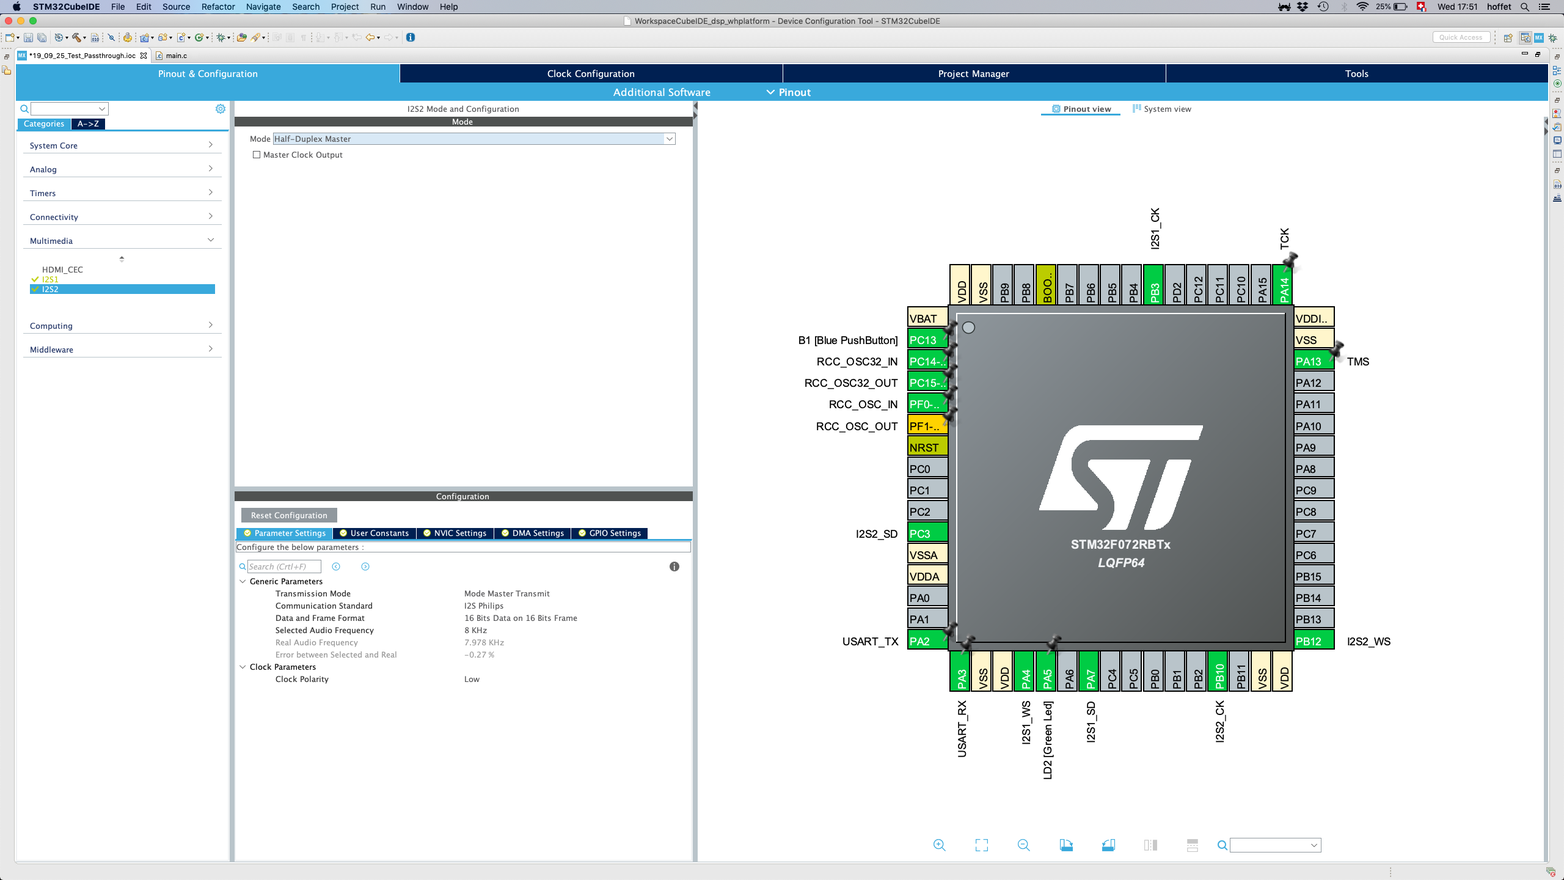
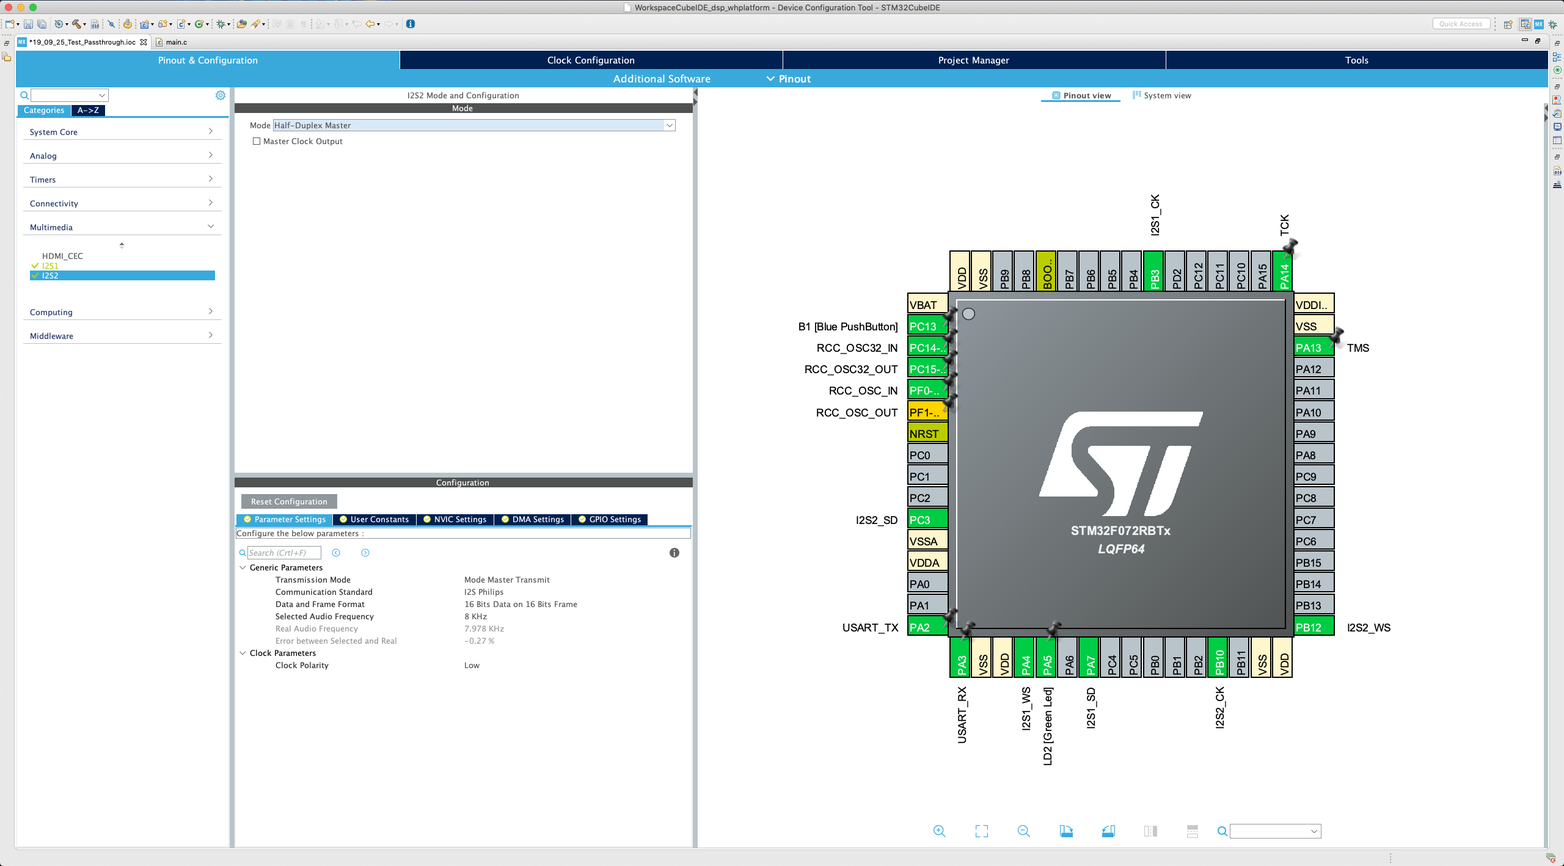
GitBook: [mooc] 7 pages and 22 assets modified

diff --git a/docs/installation/instructions.md b/docs/installation/instructions.md
@@ -16,6 +16,8 @@
 
 The first time you open the software, you will be prompted with the following screen
 
+A pop-up may appear asking if you would like to initialise all peripherals with their default mode. Press _Yes_.
+
 ![](../.gitbook/assets/screenshot-2019-10-01-at-11.37.05.png)
 
 Press the _Start new STM32 project_ button in order to launch CubeMX and start initialising the project.
@@ -28,41 +30,43 @@ We will be using this graphical software to generate the initialization code for
 
 ### Board selection
 
-When all necessary downloads are completed, you should eventually see something similar to below. Click on the "Board Selector" tab in the top toolbar to the left.
+When all necessary downloads are completed, you should eventually see something similar to below. Click on the _Board Selector_ tab in the top toolbar to the left.
 
 ![](../.gitbook/assets/screenshot-2019-09-25-at-15.54.25-2%20%281%29.png)
 
-Filter by board on the left column; enter "NUCLEO-F072RB". Double-click the board in the search results. A pop-up may appear asking if you would like to initialize all peripherals with their default mode. Press "Yes".
+Filter by board on the left column; enter "NUCLEO-F072RB". Double-click the board in the search results. 
 
-![](../.gitbook/assets/screenshot-2019-09-25-at-17.37.16.png)
+![](../.gitbook/assets/screenshot-2019-10-07-at-13.36.57.png)
+
+Chose an appropriated name for the project, including the date, project goal etc, and leave the options as default.
+
+![](../.gitbook/assets/screenshot-2019-10-07-at-13.58.37.png)
+
+When clicking next, You will see a pop-up asking if you want to initialise all peripheral with their default mode. This is linked with what has been added on the Nucleo bord in addition to the micro-controller. In this case there is an LED and a button. Press _Yes_ as we will use those peripheral lated.
+
+![](../.gitbook/assets/screenshot-2019-10-07-at-13.39.21.png)
 
 When the board has loaded, you should see something similar to below.
 
 ![](../.gitbook/assets/screenshot-2019-09-25-at-17.51.04.png)
 
-Open the central pane if it was hidden, you will later need to do configuration in this pane.
+Extend the central pane if it was hidden, you will later need to do configuration in this pane.
 
 ![](../.gitbook/assets/screenshot-2019-09-25-at-17.51.19.png)
 
-### Generate initialization code
+### Generate initialisation code
 
-When a Nucleo template is selected, the blue button and the "LD2" LED are already configured. This is sufficient for our first project!
+When a Nucleo template is selected and all peripheral initialised with default values, the blue button _B1_ and the LED _LD2_ are already configured. This is sufficient for our first project!
 
-We are now ready to generate the initialisation code! Save your project by _Command + S_ or _ctrl + S_, depending on your OS. The project will be automatically generated.
+We are now ready to generate the initialisation code! Save your project by _Command + S_ or _ctrl + S_, depending on your OS. The project will be automatically generated if a modification was made. At this stage, _CubeMX_ will write down in _C_, using _HAL_ libraries everything that was selected through it's GUI. 
 
-You should see a window similar to below pop up. Give your project a meaningful name and decide where to save it. We recommend _putting the date_ as part of the project name. **It is very important to set "Toolchain / IDE" to "SW4STM32".** Press "Ok" to generate the code. If prompted to download any firmware code, do so. Unfortunately, if you do not have an Internet connection, you will not be able to create the project.
+_HAL_ is short for _Hardware Abstraction Layer_ and it is a library provided by ST to help developers produce _portable_ code, i.e. code that can be used across the whole family of STM32 boards. For more information on HAL, check out [this document](https://www.st.com/content/ccc/resource/technical/document/user_manual/2f/77/25/0f/5c/38/48/80/DM00122015.pdf/files/DM00122015.pdf/jcr:content/translations/en.DM00122015.pdf).
 
-![](../.gitbook/assets/12_project_settings_1.png)
-
-When the code has been successfully generated, you should see a pop-up similar to below. Simply press "Close" as we will open the project in a different manner.
-
-![](../.gitbook/assets/13_generate_success_1.png)
+![](../.gitbook/assets/screenshot-2019-10-07-at-14.05.00.png)
 
 ## Project development with SW4STM32 <a id="deploy"></a>
 
-
-
-From the "Project Explorer", open the file `"Src/main.c"` \(see below\). Throughout the file, you should see comments that read `USER CODE BEGIN` and `USER CODE END`; _it is only between these comments that you should write your code!_ All other lines of code have been created by CubeMX according to the configuration we specified before. If you decide to adjust any configuration through CubeMX by editing the IOC file within the _copied_ project inside your workspace, it may modify anything outside of `USER CODE BEGIN` and `USER CODE END`, which is why all your code should be between these two lines.
+From the "Project Explorer", open the file `"Src/main.c"` \(see below\). Throughout the file, you should see comments that read `USER CODE BEGIN` and `USER CODE END`; _**it is only between these comments that you should write your code!**_ ****All other lines of code have been created by _CubeMX_ according to the configuration we specified before. If you decide to adjust any configuration through _CubeMX_ by editing the IOC file within the _copied_ project inside your workspace, it may modify anything outside of `USER CODE BEGIN` and `USER CODE END`, which is why all your code should be between these two lines.
 
 ![](../.gitbook/assets/18_workspace.PNG)
 
@@ -84,26 +88,28 @@ while (1) {
 /* USER CODE END 3 */
 ```
 
-`HAL_GPIO_TogglePin` and `HAL_Delay` are commands provided by ST for toggling a pin and delaying respectively. You can see a function/variable definition by pressing "Ctrl +"" clicking the function/variable \("Command" on MacOS\).
+`HAL_GPIO_TogglePin` and `HAL_Delay` are commands provided by _ST_ for toggling a pin and delaying respectively. You can see a function/variable definition by pressing _Ctrl +_ clicking the function/variable \(_Command_ on MacOS\).
 
-The first command toggles the value of the pin corresponding to the LED at pin "LD2"; it turns the LED _on_ for one iteration of the while loop, _off_ for the next iteration, etc. In order to actually observe the LED blinking with the "naked" eye, we must set a delay between each toggle operation. This is what the second command does by placing a delay of 1 second, as the function `HAL_Delay` accepts delays in milliseconds.
+The first command toggles the value of the pin corresponding to the LED at pin _LD2_; it turns the LED _on_ for one iteration of the while loop, _off_ for the next iteration, etc. In order to actually observe the LED blinking with the "naked" eye, we must set a delay between each toggle operation. This is what the second command does by placing a delay of 1 second, as the function `HAL_Delay` accepts delays in milliseconds.
 
-"HAL" is short for "Hardware Abstraction Layer" and it is a library provided by ST to help developers produce _portable_ code, i.e. code that can be used across the whole family of STM32 boards. For more information on HAL, check out [this document](https://www.st.com/content/ccc/resource/technical/document/user_manual/2f/77/25/0f/5c/38/48/80/DM00122015.pdf/files/DM00122015.pdf/jcr:content/translations/en.DM00122015.pdf).
+### Building the project
 
-Before plugging in the board, let's try building the project. This can be done by pressing the _hammer_ icon on the top toolbar, or by using the shortcut "Ctrl + B" \("Command + B" on MacOS\). Make sure you are building for "Debug" and for the correct project.
+Before plugging in the board, let's try building the project. This can be done by pressing the _hammer_ icon on the top toolbar, or by using the shortcut "Ctrl + B" \("Command + B" on MacOS\). Make sure you are building for _Debug_ and for the correct project.
 
 In the figure below, we can see two signs of a successful build:
 
-* A "Binaries" folder was created as can be seen in the "Project Explorer" and it contains an ELF file corresponding to our project. It should have the same name as your project. If this does not appear, it may be necessary to refresh the project by right-clicking the project directory and selecting "Refresh" \(or using the shortcut F5\).
+* A "Binaries" folder was created as can be seen in the "Project Explorer" and it contains an ELF file corresponding to our project. It should have the same name as your project. If this does not appear, it may be necessary to refresh the project by right-clicking the project directory and selecting _Refresh_ \(or using the shortcut F5\).
 * There are no errors in the "Console" pane.
 
 ![](../.gitbook/assets/19_successful_build.PNG)
 
 Now we can program the board! Plug the board to your computer using the USB Type-A to Mini-B cable. A couple LEDs of the board should light up as it is being powered by your computer.
 
-Click on the arrow next to the _bug_ icon from the toolbar and select "Debug As &gt; Ac6 STM32 C/C++ Application" \(see below\).
+### Debugging the code
 
-![](../.gitbook/assets/20_debug.png)
+Click on the _bug_ icon from the toolbar and select _Debug As &gt; STM32_  MCU _C/C++ Application_ \(see below\).
+
+![](../.gitbook/assets/screenshot-2019-10-07-at-14.52.49.png)
 
 If this is your first time debugging in this workspace, you should see a pop-up similar to below appear. Click "Yes" as this perspective will be very useful, and you can check the box for "Remember my decision" so that this pop-up does not appear again.
 
@@ -115,7 +121,23 @@ If something similar to the following error appear:
 "Unplugged target or STLink already in use or STLink USB driver not installed."
 ```
 
-make sure the board is properly plugged in and/or try another port. We noticed such an error when using USB 3.0 ports.
+make sure the board is properly plugged in and/or try another port.
+
+If the Nucleo's firmware is outdated, you might be requested to update it with the following message:
+
+![](../.gitbook/assets/screenshot-2019-09-25-at-17.42.06.png)
+
+Just press _OK_ and then _Yes._
+
+![](../.gitbook/assets/screenshot-2019-10-07-at-15.11.56.png)
+
+First press _Open in update mode,_ and then _Upgrade_ the firmware of your Nucleo.
+
+![](../.gitbook/assets/screenshot-2019-10-07-at-15.15.01.png)
+
+![](../.gitbook/assets/screenshot-2019-10-07-at-15.06.44.png)
+
+After the upgrade, you can press again on the bug button to resume debbuging.
 
 A view similar to below should then appear. This is the typical "Debug perspective" of Eclipse.
 
@@ -127,7 +149,7 @@ You should now observe the "LD2" LED \(see below\) blinking!
 
 ![](../.gitbook/assets/24_led_blinking.png)
 
-_Figure: Top view of a NUCLEO-XXXXRX board. Red arrow pointing out approximate location of "LD2" LED._ [Picture source](https://www.st.com/content/ccc/resource/technical/document/data_brief/c8/3c/30/f7/d6/08/4a/26/DM00105918.pdf/files/DM00105918.pdf/jcr:content/translations/en.DM00105918.pdf).
+_Figure: Top view of a NUCLEO-XXXXRX board. Red arrow pointing out the location of "LD2" LED._ [Picture source](https://www.st.com/content/ccc/resource/technical/document/data_brief/c8/3c/30/f7/d6/08/4a/26/DM00105918.pdf/files/DM00105918.pdf/jcr:content/translations/en.DM00105918.pdf).
 
 ### Terminating program
 
@@ -135,7 +157,7 @@ In order to properly stop the program, it is also necessary to disconnect from t
 
 ![](../.gitbook/assets/25_disconnect_1.png)
 
-Finally, you can switch back to the "normal" perspective by pressing the button to the left of the _bug_ icon in the top-right corner \(see below\).
+Finally, you can switch back to the _normal_ perspective by pressing the button to the left of the _bug_ icon in the top-right corner \(see below\).
 
 ![](../.gitbook/assets/26_switch_perspective_1.png)
 

diff --git a/docs/alien-voice/implementation.md b/docs/alien-voice/implementation.md
@@ -1,24 +1,20 @@
 # 3.4 C implementation
 
-Assuming you have successfully implemented a passthrough in the previous guide, we can simply copy and paste this project from within the SW4STM32 software. After pasting it, a pop-up will ask to give a name to the copied project. We recommend choosing a name with the current date and `"alien_voice"` in it. Remember to delete the binary \(ELF\) file of the original project inside the copied project.
+Assuming you have successfully implemented a passthrough in the previous guide, we can simply copy and paste this project from within the STM32CubeIDE software. After pasting it, a pop-up will ask to give a name to the copied project. We recommend choosing a name with the current date and `"alien_voice"` in it. Remember to delete the binary \(ELF\) file of the original project inside the copied project.
 
 ## Setting up timer for benchmarking <a id="timer"></a>
 
-Open the CubeMX software to update the initialization code by opening the IOC file of the copied project.
+Open the CubeMX file by double clicking the .ioc file of the copied project it in the IDE project explorer in order to update the initialization code.
 
-For this exercise, we will only need to add the configuration of a _timer_ \(to benchmark our implementation\) as the rest of the system is already up and running. In order to activate a timer, you need to set a "Clock Source". This is done from the "Pinout" tab on the left-hand column as shown below:
+For this exercise, we will only need to add the configuration of a _timer_ \(to benchmark our implementation\) as the rest of the system is already up and running. In order to activate a timer, you need to set a "Clock Source". Open _TIM2_ in the Timers menu and activate it's clock:
 
-![](../.gitbook/assets/activate_the_clock_for_tim2.png)
+![](../.gitbook/assets/screenshot-2019-10-07-at-15.42.23.png)
 
 _Figure: Set the "Clock Source" to "Internal Clock" in order to enable "TIM2"._
 
-Next, we need to configure the timer from the "Configuration" tab by pressing "TIM2" under "Control" \(see below\).
+Next, we need to configure the timer.
 
-![](../.gitbook/assets/config_tab-1%20%281%29.png)
-
-A pop-up similar to below should appear.
-
-![](../.gitbook/assets/setup_tim2_as_us_timebase_edited-1.png)
+![](../.gitbook/assets/screenshot-2019-10-07-at-15.43.06.png)
 
 {% hint style="info" %}
 TASK 4: We ask you to set the "Prescaler" value \(in the figure above\) in order to achieve a $$1\,[\mu s]$$ period for "TIM2", i.e. we want our timer to have a $$1\,[\mu s]$$ resolution.
@@ -26,9 +22,9 @@ TASK 4: We ask you to set the "Prescaler" value \(in the figure above\) in order
 _Hint: Go to the "Clock Configuration" tab \(from the main window pane\) to see what is the frequency of the input clock to "TIM2". From this calculate the prescaler value to increase the timer's period to_ $$1\,[\mu s]$$_._
 {% endhint %}
 
-You can leave the rest of the parameters as is for "TIM2". Finally, you can update the initialization code by pressing the _gear_ button in the toolbar. As before, do not open the project when prompted to do; select "Close".
+You can leave the rest of the parameters as is for "TIM2". Finally, you can update the initialization code by saving the file.
 
-You can now open the SW4STM32 software. In order to use the timer we configured, we will need to define a variable to keep track of the time and a macro to reset the timer. Between the `USER CODE BEGIN PV` and `USER CODE END PV` comments, add the following lines in the `main.c` file.
+In order to use the timer we configured, we will need to define a variable to keep track of the time and a macro to reset the timer. Between the `USER CODE BEGIN PV` and `USER CODE END PV` comments, add the following lines in the `main.c` file.
 
 ```c
 /* USER CODE BEGIN PV */
@@ -111,13 +107,13 @@ _Note: keep in mind the points made about using_ `float` _or_ `int` _variables \
 
 You will notice that we used a `printf` function in order to output text on the debug console. To enable this function you need to make the following changes to your project:
 
-* In the Project Properties \("right-click" project &gt; Properties\), navigate to "C/C++ Build &gt; Settings" on the left-hand side \(see the figure below\). Under "MCU GCC Linker -&gt; Miscellaneous", update the "Linker flags" field with:
+* In the Project Properties \("right-click" project &gt; Properties\), navigate to "C/C++ Build &gt; Settings" on the left-hand side \(see the figure below\). Under "Tools Settings -&gt; MCU GCC Linker -&gt; Miscellaneous", add "Linker flags" field by pressing the "+" button. The necessary flags are the following:
 
   ```text
   -specs=nosys.specs -specs=nano.specs -specs=rdimon.specs -lc -lrdimon
   ```
 
-![](../.gitbook/assets/proj_prop-1.png)
+![](../.gitbook/assets/screenshot-2019-10-07-at-15.46.31.png)
 
 * Add the following function prototype above the `main` function \(e.g. between the `USER CODE BEGIN PFP` and `USER CODE END PFP` comments\):
 

diff --git a/docs/passthrough/updating_stm32_peripherals.md b/docs/passthrough/updating_stm32_peripherals.md
@@ -10,7 +10,7 @@ Now we are ready to update the initialization code. From the CubeMX software, lo
 
 When the IOC file has successfully loaded, you should see something similar to the figure below. On the left-hand column, enable **I2S1** and **I2S2** by selecting the "Mode" to be "Half-Duplex Master".
 
-![](../.gitbook/assets/4_enable_i2s.PNG)
+![](../.gitbook/assets/screenshot-2019-09-25-at-17.51.49.png)
 
 You should see several pins highlighted green. What we have done is enable two I2S buses \(for the microphone and the DAC\), and the highlighted pins are those that will be used to transmit with the I2S protocol. Each bus uses three pins according to the [I2S specification](https://www.sparkfun.com/datasheets/BreakoutBoards/I2SBUS.pdf):
 
@@ -22,7 +22,7 @@ Click on the "Configuration" tab where we will adjust the I2S and DMA settings. 
 
 From the "Configuration" tab you should see a view similar to below.
 
-![](../.gitbook/assets/5_config_tab.PNG)
+![](../.gitbook/assets/screenshot-2019-09-25-at-17.53.06.png)
 
 {% hint style="info" %}
 TASK 1: We would like you to set up I2S1 for the DAC and I2S2 for the microphone. You will have to check the datasheets \([DAC](https://www.nxp.com/docs/en/data-sheet/UDA1334ATS.pdf) and [microphone](https://cdn-shop.adafruit.com/product-files/3421/i2S+Datasheet.PDF)\) in order to find the correct parameters \(sampling frequency, data and frame format\) to set.
@@ -32,7 +32,7 @@ Click on "I2S1" under "Multimedia" to adjust its settings. **Under the "Paramete
 
 Under the "DMA Settings" tab, press "Add". Adjust the settings so that they match the figure below, namely "DMA Request" set to "SPI1\_TX" for the DAC; "Mode" set to "Circular"; and "Data Width" set to "Half Word". Press "Apply" then "Ok" to confirm the changes.
 
-![](../.gitbook/assets/7_i2s1_dma_settings.PNG)
+![](../.gitbook/assets/screenshot-2019-09-25-at-17.53.06%20%281%29.png)
 
 {% hint style="info" %}
 TASK 2: Click on "I2S2" under "Multimedia" to adjust its settings. **Under the "Parameter Settings" tab, set the fields under "Generic Parameters" so that I2S2 can be used for the microphone.**
@@ -42,11 +42,11 @@ _Hint: make sure that the DAC and the microphone have the same "Selected Audio F
 
 Under the "DMA Settings" tab, press "Add". Adjust the settings so that they match the figure below, namely "DMA Request" set to "SPI2\_RX" for the microphone; "Mode" set to "Circular"; and "Data Width" set to "Half Word". Press "Apply" then "Ok" to confirm the changes.
 
-![](../.gitbook/assets/9_i2s2_dma_settings.PNG)
+![](../.gitbook/assets/screenshot-2019-09-25-at-17.54.24.png)
 
 Click on "NVIC" under "System" from the "Configuration" tab of CubeMX. Ensure that the interrupts are enabled for the selected DMA channels, as below.
 
-![](../.gitbook/assets/10_nvic_dmas_enabled_1.png)
+![](../.gitbook/assets/screenshot-2019-09-25-at-17.54.49%20%281%29.png)
 
 ## Configure GPIO pins <a id="gpio"></a>
 
@@ -73,9 +73,9 @@ Just like giving meaningful names to variables when programming, we would like t
 
 ## Update initialization code <a id="init_code"></a>
 
-We can now update our source code by pressing the _gear_ button in the toolbar \(see below\). As before, do not open the project when prompted to do; select "Close".
+We can now update our source code, it will be done if you save the _.ioc_ file or when changing perspective.
 
-![](../.gitbook/assets/firmware_5.png)
+![](../.gitbook/assets/screenshot-2019-10-07-at-15.36.36.png)
 
 If you have any of the source files open on SW4STM32, they should update automatically according to any settings you changed from CubeMX. This is why you should not enter any code outside of the `USER CODE BEGIN` and `USER CODE END` comments as it could be replaced by the new configuration code.
 

diff --git a/docs/installation/software/sw4stm32.md b/docs/installation/software/sw4stm32.md
@@ -8,7 +8,7 @@ The following steps are the same for Windows, Linux, and MacOS as they simply co
 
 ## Download instructions
 
-The following steps are the same for Windows, Linux, and MacOS as they simply consist of downloading the installation files. For the actual installation, please refer to the corresponding subsection after the following instructions.
+The following steps are the same for Windows, Linux, and MacOS as they simply consist of downloading the installation files. Please refer to the distributor website for detailed installation instructions. Please refer to the corresponding subsection after the following instructions for our additional remarks.
 
 1\) Navigate to the ST [site for the STM32CubeIDE software](https://www.st.com/en/development-tools/stm32cubeide.html).
 
@@ -26,11 +26,9 @@ The following steps are the same for Windows, Linux, and MacOS as they simply co
 
 
 
-## MacOS
+## Note for MacOS users
 
-_Note: the instructions were tested using MacOS Mojabe, Version 10.14 on October 1, 2019._
-
-If you face any complications, please refer to the [official instructions](http://www.openstm32.org/Installing%2BSystem%2BWorkbench%2Bfor%2BSTM32%2Bwith%2Binstaller) . Below we provide the instructions that worked for our system setup.
+_Note: the instructions were tested using MacOS Mojave, Version 10.14 on October 1, 2019._
 
 You may encounter the following dialog on macOS, please follow the instructions below if it is your case:
 
@@ -43,6 +41,8 @@ You may encounter the following dialog on macOS, please follow the instructions 
 2\) Click on _Open Anyway,_ in order to perform this operation you might need the administrator rights.
 
 3\) After letting MacOS open the install package, you should be able to pursue the normal installation.
+
+
 
 You can now proceed to creating [your first project](../instructions.md)!
 

diff --git a/docs/installation/README.md b/docs/installation/README.md
@@ -2,7 +2,7 @@
 
 First things first, we will go over the hardware and software for these exercises.
 
-The board we will be using is from STMicroelectronics \(often abbreviated as ST\). ST provides many development boards that allow hobbyists, students, and even professionals prototype countless applications. In our exercises, we will be using the ST board to interface with a microphone for input and a digital-to-analog converter \(DAC\) for output. We will present these devices and our ST board in [Section 1.1](hardware.md).
+The board we will be using is from STMicroelectronics \(often abbreviated as ST\). ST provides many development boards that allow hobbyists, students, and professionals prototype countless applications. In our exercises, we will be using the ST board to interface with a microphone for input and a digital-to-analog converter \(DAC\) for output. We will present these devices and our ST board in [Section 1.1](hardware.md).
 
 In order to facilitate the development of applications, ST recently provided a full integrated development environment \(IDE\) for their boards. These tools can sometimes be overwhelming as they allow a lot of customization, but they are meant to help you! Attention to detail and reading the documentation will help you in your successful workflow. More on these tools and their installation will be covered in [Section 1.2](software/).
 

diff --git a/docs/bom.md b/docs/bom.md
@@ -8,5 +8,7 @@ The following materials are needed:
 * [Adafruit I2S Stereo Decoder](https://www.adafruit.com/product/3678)
 * [Jumper Wires](https://www.adafruit.com/product/266)
 
-In principle, any board from STM32 can be used for these exercises, as long as it is supported by [CubeMX](https://www.st.com/en/development-tools/stm32cubemx.html), [System Workbench](https://www.st.com/en/development-tools/sw4stm32.html), and supports at least two I2S buses.
+You might find those articles online as they are available at most large electronics reseller.
+
+In principle, any board that host an STM32 can be used for these exercises, as long as it is has at least two I2S buses. 
 

diff --git a/docs/installation/software/README.md b/docs/installation/software/README.md
@@ -10,7 +10,7 @@ STMicroelectronics has provided a complete IDE that includes a code generation s
 
 * [**CubeMX**](https://www.st.com/en/development-tools/stm32cubemx.html): a graphical software configuration tool, included in STM32CubeIDE, that simplifies the process of generating the C initialization code for STM32 microcontrollers.
 
-![](../../.gitbook/assets/screenshot-2019-09-25-at-17.51.49.png)
+![](../../.gitbook/assets/screenshot-2019-09-25-at-17.51.49%20%281%29.png)
 
 \_\_
 
